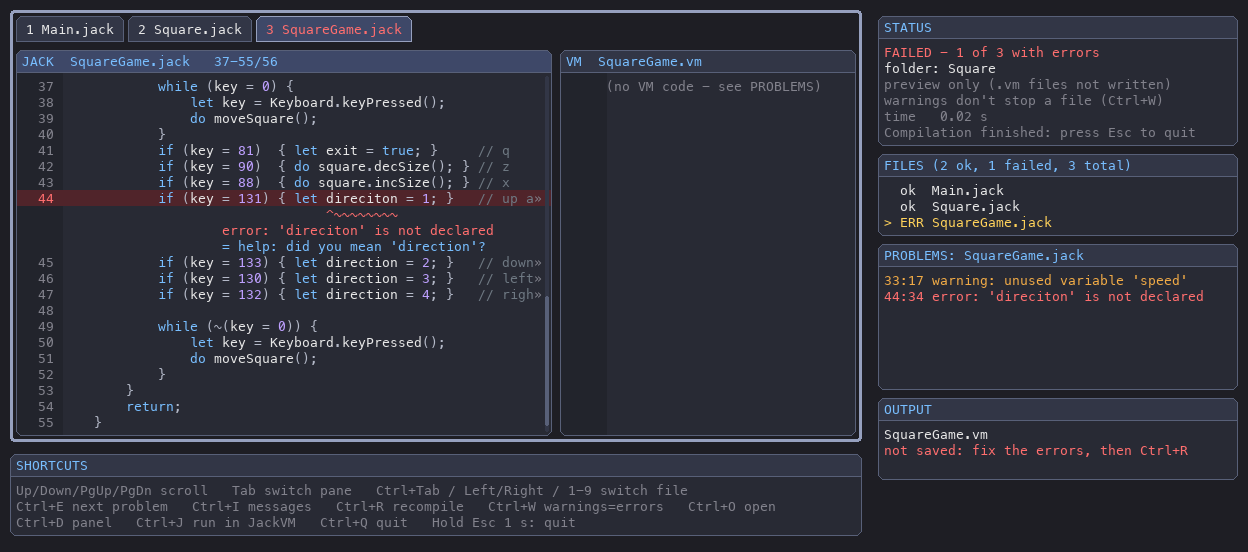
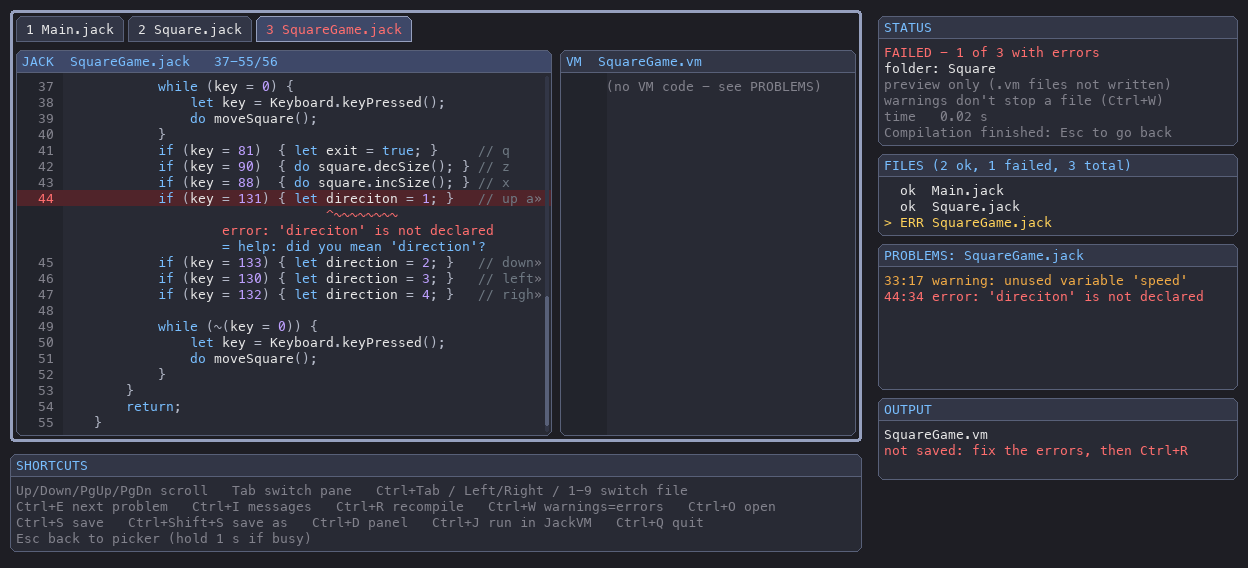
Save as: make a new folder from the chooser; refresh screenshots
- In the save-as folder chooser, Ctrl+N or the New folder button starts
  naming a folder; Enter (or Create) makes it inside the folder shown and
  selects it, Esc stops. Bad names (empty, / or \, ., .., hidden) and
  existing files are refused with a message.
- PickerState gains start_new_folder(), type_name(), erase_name(),
  cancel_new_folder() and create_folder(); folder_name_problem() checks names.
- Screenshots regenerated with the new shortcuts, plus
  docs/img/jackc-gui-save-as.png, shown in README and docs.

Changed region(s): [[0.0, 0.0, 1.0, 0.6775], [0.0, 0.462, 1.0, 0.9855]]

diff --git a/docs/readme.html b/docs/readme.html
@@ -365,7 +365,9 @@ red or amber, and a <code>^~~~</code> marker under the exact spot carries the me
 with any <code>help:</code> / <code>note:</code> lines beneath it. Beside them are the
 STATUS / FILES / PROBLEMS / OUTPUT boxes, and under them a SHORTCUTS box.
 <code>.vm</code> files are written where <code>jackc</code> would put them (or where <code>-o</code> says).
-To save them somewhere else, press <strong>Ctrl+Shift+S</strong> and choose a folder.</p>
+To save them somewhere else, press <strong>Ctrl+Shift+S</strong> and choose a folder
+(or make one: <strong>Ctrl+N</strong>, type its name, <strong>Enter</strong>):</p>
+<p><img alt="The &quot;save as&quot; folder chooser: folders with [save here] next to them, and a new folder being named" src="img/jackc-gui-save-as.png" /></p>
 <table>
 <thead>
 <tr>
@@ -416,7 +418,7 @@ To save them somewhere else, press <strong>Ctrl+Shift+S</strong> and choose a fo
 </tr>
 <tr>
 <td>Ctrl+Shift+S</td>
-<td><strong>Save as</strong>: choose the folder to save the <code>.vm</code> files in (Enter opens a folder; <code>[save here]</code>, Ctrl+Enter or <em>Save here</em> picks it). Ctrl+S and Ctrl+R then save there</td>
+<td><strong>Save as</strong>: choose the folder to save the <code>.vm</code> files in (Enter opens a folder; <code>[save here]</code>, Ctrl+Enter or <em>Save here</em> picks it; Ctrl+N or <em>New folder</em> makes one). Ctrl+S and Ctrl+R then save there</td>
 </tr>
 <tr>
 <td>Ctrl+D</td>

diff --git a/docs/gui.html b/docs/gui.html
@@ -266,7 +266,16 @@ press <kbd>Ctrl</kbd>+<kbd>Enter</kbd>, or press the <em>Save here</em> button t
 <code>.vm</code> files there (with <code>-r</code>, the sub-folder layout is kept).
 <kbd>Esc</kbd> goes back without saving. From then on, <kbd>Ctrl</kbd>+<kbd>S</kbd> and
 <kbd>Ctrl</kbd>+<kbd>R</kbd> save there, and STATUS shows the folder.</li>
+<li><strong>New folder:</strong> in the chooser, press <kbd>Ctrl</kbd>+<kbd>N</kbd> (or the
+<em>New folder</em> button), type a name and press <kbd>Enter</kbd> (or <em>Create</em>). The
+folder is made inside the one shown and selected, ready for <kbd>Ctrl</kbd>+<kbd>Enter</kbd>.
+<kbd>Esc</kbd> stops naming; names with <code>/</code> or <code>\</code>, or starting with
+<code>.</code>, aren't allowed.</li>
 </ul>
+<figure>
+    <img src="img/jackc-gui-save-as.png" alt="The 'save as' folder chooser: folders with [save here] next to them, and a new folder being named">
+    <figcaption><kbd>Ctrl</kbd>+<kbd>Shift</kbd>+<kbd>S</kbd>: choose where the <code>.vm</code> files go, or make a new folder for them.</figcaption>
+</figure>
 
 <h2 id="keys">7. Keyboard and mouse</h2>
 <table>

diff --git a/docs/quick-reference.html b/docs/quick-reference.html
@@ -112,7 +112,7 @@ jackc-gui -o bin/                # pick in a window; .vm files go to bin/
 </tr>
 <tr>
 <td>Ctrl+Shift+S</td>
-<td>Save as: choose the folder for the <code>.vm</code> files</td>
+<td>Save as: choose the folder for the <code>.vm</code> files (Ctrl+N there: new folder)</td>
 </tr>
 <tr>
 <td>Ctrl+D</td>

diff --git a/jack_compiler/gui/file_picker.py b/jack_compiler/gui/file_picker.py
@@ -33,7 +33,8 @@ Choosing where to save
 Ctrl+Shift+S in the window ("save as") opens the same picker with
 `purpose=SAVE`: it lists only folders, Enter opens one, and "[save here]"
 next to a folder, Ctrl+Enter, or the "Save here" button picks where the
-.vm files go.
+.vm files go. Ctrl+N / "New folder" makes a folder: type its name, Enter
+creates and selects it, Esc stops.
 
 Structure
 ---------
@@ -65,6 +66,22 @@ SAVE = "save"  # a folder to save the .vm files in
 # ---------------------------------------------------------------------------
 # Part 1: logic (no pygame)
 # ---------------------------------------------------------------------------
+NAME_LIMIT = 100  # longest folder name the "New folder" box takes
+
+
+def folder_name_problem(name: str) -> str:
+    """Why `name` can't be a new folder ("" if it can)."""
+    if not name:
+        return "Type a name for the new folder"
+    if "/" in name or "\\" in name or "\0" in name:
+        return "A folder name can't contain / or \\"
+    if name in (".", ".."):
+        return f"{name} isn't a folder name"
+    if name.startswith("."):
+        return "Names starting with . are hidden here - choose another"
+    return ""
+
+
 @dataclass(frozen=True)
 class Entry:
     """One row in the file list."""
@@ -127,6 +144,7 @@ class PickerState:
     def __init__(self, directory: Path, recursive: bool = False, purpose: str = OPEN) -> None:
         self.recursive = recursive
         self.purpose = purpose
+        self.naming: Optional[str] = None  # the new folder's name while it's being typed (SAVE only)
         self.message = ""  # feedback shown to the user (e.g. an error)
         self.open_folder(directory)
 
@@ -194,6 +212,52 @@ class PickerState:
             return None
         return folder
 
+    # --- "New folder" (save mode): name a folder, then create it -------------
+    def start_new_folder(self) -> None:
+        """Ctrl+N / the "New folder" button: start typing a name."""
+        self.naming = ""
+        self.message = ""
+
+    def type_name(self, text: str) -> None:
+        if self.naming is not None:
+            self.naming = (self.naming + text.replace("\n", "").replace("\r", ""))[:NAME_LIMIT]
+
+    def erase_name(self) -> None:
+        if self.naming:
+            self.naming = self.naming[:-1]
+
+    def cancel_new_folder(self) -> None:
+        self.naming = None
+        self.message = ""
+
+    def create_folder(self) -> Optional[Path]:
+        """
+        Make the typed folder in the folder being shown and select it.
+        Returns its path, or None (with self.message saying why; typing goes on).
+        An existing folder of that name is simply selected.
+        """
+        if self.naming is None:
+            return None
+        name = self.naming.strip()
+        problem = folder_name_problem(name)
+        folder = self.directory / name
+        if not problem and folder.exists() and not folder.is_dir():
+            problem = f"There's already a file called {name}"
+        if not problem:
+            try:
+                folder.mkdir(exist_ok=True)
+            except OSError as error:
+                problem = f"Can't make {name}/: {error.strerror or error}"
+        if problem:
+            self.message = problem
+            return None
+        self.naming = None
+        self.open_folder(self.directory)  # list it...
+        for index, entry in enumerate(self.entries):
+            if entry.path == folder:
+                self.selected = index  # ...and select it
+        return folder
+
     def current_folder_jack_count(self) -> int:
         return sum(1 for e in self.entries if e.kind == "jack")
 
@@ -243,6 +307,7 @@ class FilePicker:
         self._row_rects: List[Tuple[object, int, Optional[object]]] = []
         self._compile_button = None
         self._cancel_button = None
+        self._new_folder_button = None
 
     # --- the picker's own little main loop --------------------------------
     def run(self) -> Tuple[str, Optional[Path]]:
@@ -275,13 +340,18 @@ class FilePicker:
         if event.type == pygame.QUIT:
             return QUIT, None
 
+        if state.naming is not None and event.type in (pygame.KEYDOWN, pygame.TEXTINPUT):
+            return self._naming_event(event)
+
         if event.type == pygame.KEYDOWN:
             ctrl = event.mod & (pygame.KMOD_CTRL | pygame.KMOD_META)
             if event.key == pygame.K_ESCAPE:
                 return None if self._esc_needs_release else (CANCEL, None)
             if ctrl and event.key == pygame.K_q:
                 return QUIT, None
-            if event.key in (pygame.K_RETURN, pygame.K_KP_ENTER):
+            if ctrl and event.key == pygame.K_n and self.saving:
+                self._start_new_folder()
+            elif event.key in (pygame.K_RETURN, pygame.K_KP_ENTER):
                 chosen = state.compile_folder_entry() if ctrl else state.activate()
             elif event.key in (pygame.K_BACKSPACE, pygame.K_LEFT):
                 state.go_up()
@@ -316,8 +386,36 @@ class FilePicker:
             return CHOSEN, chosen
         return None
 
+    def _start_new_folder(self) -> None:
+        self.state.start_new_folder()
+        self.pygame.key.start_text_input()  # so typing arrives as TEXTINPUT events
+
+    def _naming_event(self, event) -> Optional[Tuple[str, Optional[Path]]]:
+        """Keys while a new folder's name is typed: Enter creates it, Esc stops."""
+        pygame, state = self.pygame, self.state
+        if event.type == pygame.TEXTINPUT:
+            state.type_name(event.text)
+            return None
+        ctrl = event.mod & (pygame.KMOD_CTRL | pygame.KMOD_META)
+        if ctrl and event.key == pygame.K_q:
+            return QUIT, None
+        if event.key == pygame.K_ESCAPE:
+            state.cancel_new_folder()
+            self._esc_needs_release = True  # this press isn't also "go back"
+        elif event.key in (pygame.K_RETURN, pygame.K_KP_ENTER):
+            state.create_folder()
+        elif event.key == pygame.K_BACKSPACE:
+            state.erase_name()
+        return None
+
     def _handle_click(self, position) -> Optional[Path]:
         """Work out what is under the mouse and do the matching action."""
+        if self._new_folder_button and self._new_folder_button.collidepoint(position):
+            if self.state.naming is None:
+                self._start_new_folder()
+            else:
+                self.state.create_folder()
+            return None
         if self._compile_button and self._compile_button.collidepoint(position):
             return self.state.compile_current_folder()
         for row_rect, index, compile_rect in self._row_rects:
@@ -383,7 +481,13 @@ class FilePicker:
             title += "  (recursive)"
         self._text(title, self.TITLE, (x, self.MARGIN))
         self._text(self._fit_left(str(state.directory), width - 2 * x, self.font), self.TEXT, (x, self.MARGIN + line))
-        if state.message:
+        if state.naming is not None:
+            prompt = f"New folder: {state.naming}_"
+            self._text(prompt, self.TITLE, (x, self.MARGIN + 2 * line), self.small)
+            hint = state.message or "Enter: create   Esc: cancel"
+            self._text(hint, self.ERROR if state.message else self.DIM,
+                       (x + self.small.size(prompt)[0] + 16, self.MARGIN + 2 * line), self.small)  # fmt: skip
+        elif state.message:
             self._text(state.message, self.ERROR, (x, self.MARGIN + 2 * line), self.small)
 
         # The list of entries (only the rows that fit).
@@ -427,11 +531,11 @@ class FilePicker:
         pygame.draw.line(surface, self.DIM, (area.left, help_y - 4), (area.right, help_y - 4))
         back_to = self.back_to if len(self.back_to) <= 20 else self.back_to[:19] + "…"
         esc = f"Esc: back to {back_to}" if self.back_to else "Esc: quit"
-        chosen = "save in folder" if self.saving else "compile folder"
-        self._text(
-            f"Enter: open   Ctrl+Enter: {chosen}   Backspace: up   {esc}   Ctrl+Q: quit",
-            self.DIM, (x, help_y), self.small,
-        )  # fmt: skip
+        if self.saving:  # (Esc always goes back here: the chooser opens from a program)
+            keys = "Enter: open   Ctrl+Enter: save in folder   Ctrl+N: new folder   Backspace: up   Esc: back"
+        else:
+            keys = f"Enter: open   Ctrl+Enter: compile folder   Backspace: up   {esc}   Ctrl+Q: quit"
+        self._text(keys, self.DIM, (x, help_y), self.small)
         count = state.current_folder_jack_count()
         enabled = count > 0 or state.recursive or self.saving
         if self.saving:
@@ -442,3 +546,8 @@ class FilePicker:
         self._cancel_button = pygame.Rect(self._compile_button.right + 12, self._compile_button.top, 120, 40)
         self._button(self._compile_button, label, enabled=enabled)
         self._button(self._cancel_button, "Back" if self.back_to else "Quit", enabled=True)
+        self._new_folder_button = None
+        if self.saving:
+            label = "Create" if state.naming is not None else "New folder"
+            self._new_folder_button = pygame.Rect(self._cancel_button.right + 12, self._cancel_button.top, 140, 40)
+            self._button(self._new_folder_button, label, enabled=True)

diff --git a/tests/test_gui.py b/tests/test_gui.py
@@ -746,9 +746,9 @@ def test_save_picker_says_what_it_does(project, monkeypatch):
     monkeypatch.setattr(picker, "_text", lambda text, *a, **k: drawn.append(text))
     monkeypatch.setattr(picker, "_button", lambda rect, label, **k: drawn.append(label))
     picker.draw()
-    footer = next(t for t in drawn if "Ctrl+Q: quit" in t)
-    assert "Choose the folder to save the .vm files in" in drawn and "Save here" in drawn
-    assert "save in folder" in footer and picker.small.size(footer)[0] <= 800 - 2 * picker.MARGIN
+    footer = next(t for t in drawn if "Backspace: up" in t)
+    assert "Choose the folder to save the .vm files in" in drawn and "Save here" in drawn and "New folder" in drawn
+    assert "save in folder" in footer and "Ctrl+N: new folder" in footer and picker.small.size(footer)[0] <= 800 - 2 * picker.MARGIN
     pygame.quit()
 
 
@@ -816,3 +816,55 @@ def test_jackc_gui_output_works_with_the_picker(project, monkeypatch):
     assert gui_main.main(["--gui", str(project), "-o", str(project / "bin")]) == 0
     assert seen["output"] == project / "bin" and opened[0].output == project / "bin"
     assert opened[0].session.results[0].target == (project / "bin" / "Math.vm").resolve()
+
+
+# --- "New folder" in the save-as chooser ---------------------------------------------
+from jack_compiler.gui.file_picker import folder_name_problem  # noqa: E402
+
+
+def test_picker_new_folder_rules(tmp_path):
+    assert folder_name_problem("bin") == ""
+    for bad in ("", "a/b", "a\\b", ".", "..", ".hidden"):
+        assert folder_name_problem(bad), bad
+    state = PickerState(tmp_path, purpose=SAVE)
+    state.start_new_folder()
+    state.type_name("")
+    assert state.create_folder() is None and "Type a name" in state.message and state.naming == ""
+    state.type_name("bin\n")
+    assert state.create_folder() == tmp_path.resolve() / "bin" and (tmp_path / "bin").is_dir()
+    assert state.naming is None and state.entries[state.selected].path == tmp_path.resolve() / "bin"
+    (tmp_path / "f").write_text("")
+    state.start_new_folder()
+    state.type_name("f")
+    assert state.create_folder() is None and "already a file" in state.message
+    state.erase_name()
+    assert state.naming == ""
+    state.cancel_new_folder()
+    assert state.naming is None
+
+
+def test_file_picker_new_folder_keys_and_button(project):
+    pygame.init()
+    surface = pygame.display.set_mode((800, 560))
+    picker = FilePicker(surface, project, back_to="x/", purpose=SAVE)
+    handle = picker._handle_event
+    assert handle(key_down(pygame.K_n, pygame.KMOD_CTRL)) is None and picker.state.naming == ""
+    handle(pygame.event.Event(pygame.TEXTINPUT, text="binx"))
+    handle(key_down(pygame.K_BACKSPACE))  # edits the name, doesn't go up
+    assert picker.state.naming == "bin" and picker.state.directory == project.resolve()
+    picker.draw()
+    assert handle(key_down(pygame.K_ESCAPE)) is None and picker.state.naming is None  # stops naming only
+    picker._esc_needs_release = False
+    picker.draw()
+    assert handle(pygame.event.Event(pygame.MOUSEBUTTONDOWN, button=1, pos=picker._new_folder_button.center)) is None
+    handle(pygame.event.Event(pygame.TEXTINPUT, text="vm"))
+    handle(key_down(pygame.K_RETURN))
+    assert (project / "vm").is_dir() and picker.state.entries[picker.state.selected].label == "vm/"
+    assert handle(key_down(pygame.K_RETURN, pygame.KMOD_CTRL)) == (CHOSEN, (project / "vm").resolve())
+    open_picker = FilePicker(surface, project)  # the open-a-program picker has no "New folder"
+    open_picker.draw()
+    assert open_picker._new_folder_button is None
+    handle = open_picker._handle_event
+    handle(key_down(pygame.K_n, pygame.KMOD_CTRL))
+    assert open_picker.state.naming is None
+    pygame.quit()

diff --git a/README.md b/README.md
@@ -392,7 +392,10 @@ red or amber, and a `^~~~` marker under the exact spot carries the message,
 with any `help:` / `note:` lines beneath it. Beside them are the
 STATUS / FILES / PROBLEMS / OUTPUT boxes, and under them a SHORTCUTS box.
 `.vm` files are written where `jackc` would put them (or where `-o` says).
-To save them somewhere else, press **Ctrl+Shift+S** and choose a folder.
+To save them somewhere else, press **Ctrl+Shift+S** and choose a folder
+(or make one: **Ctrl+N**, type its name, **Enter**):
+
+![The "save as" folder chooser: folders with [save here] next to them, and a new folder being named](docs/img/jackc-gui-save-as.png)
 
 | Key | Action |
 |-----|--------|
@@ -406,7 +409,7 @@ To save them somewhere else, press **Ctrl+Shift+S** and choose a folder.
 | Ctrl+J | Run the program in [JackVM](https://github.com/kpillai2017/jackvm-py). If JackVM isn't found yet, it asks where it is ([details](#using-it-with-jackvm)) |
 | Ctrl+O | Open another file or folder |
 | Ctrl+S | Save the `.vm` files (also after `--no-write`) |
-| Ctrl+Shift+S | **Save as**: choose the folder to save the `.vm` files in (Enter opens a folder; `[save here]`, Ctrl+Enter or *Save here* picks it). Ctrl+S and Ctrl+R then save there |
+| Ctrl+Shift+S | **Save as**: choose the folder to save the `.vm` files in (Enter opens a folder; `[save here]`, Ctrl+Enter or *Save here* picks it; Ctrl+N or *New folder* makes one). Ctrl+S and Ctrl+R then save there |
 | Ctrl+D | Show / hide the info panel |
 | **Esc** | **Go back** to the file picker, where you can open something else. The rules are the same as the jackvm player: **a single press** once the compilation has finished, but **hold for 1 s** while it's still running (a progress bar appears after 0.25 s; letting go cancels). In the picker, Esc goes back to what you had open, or quits if nothing is open yet. |
 | Ctrl+Q, or close the window | Quit (works in the file picker too) |

diff --git a/QUICK_REFERENCE.md b/QUICK_REFERENCE.md
@@ -41,7 +41,7 @@ jackc-gui -o bin/                # pick in a window; .vm files go to bin/
 | Ctrl+J | Run the program in JackVM ([jackvm-py](https://github.com/kpillai2017/jackvm-py)); asks where it is the first time |
 | Ctrl+O | Open something else |
 | Ctrl+S | Save the `.vm` files |
-| Ctrl+Shift+S | Save as: choose the folder for the `.vm` files |
+| Ctrl+Shift+S | Save as: choose the folder for the `.vm` files (Ctrl+N there: new folder) |
 | Ctrl+D | Show / hide info panel |
 | Esc (hold 1 s while compiling) | Back to the file picker |
 | Ctrl+Q | Quit |
